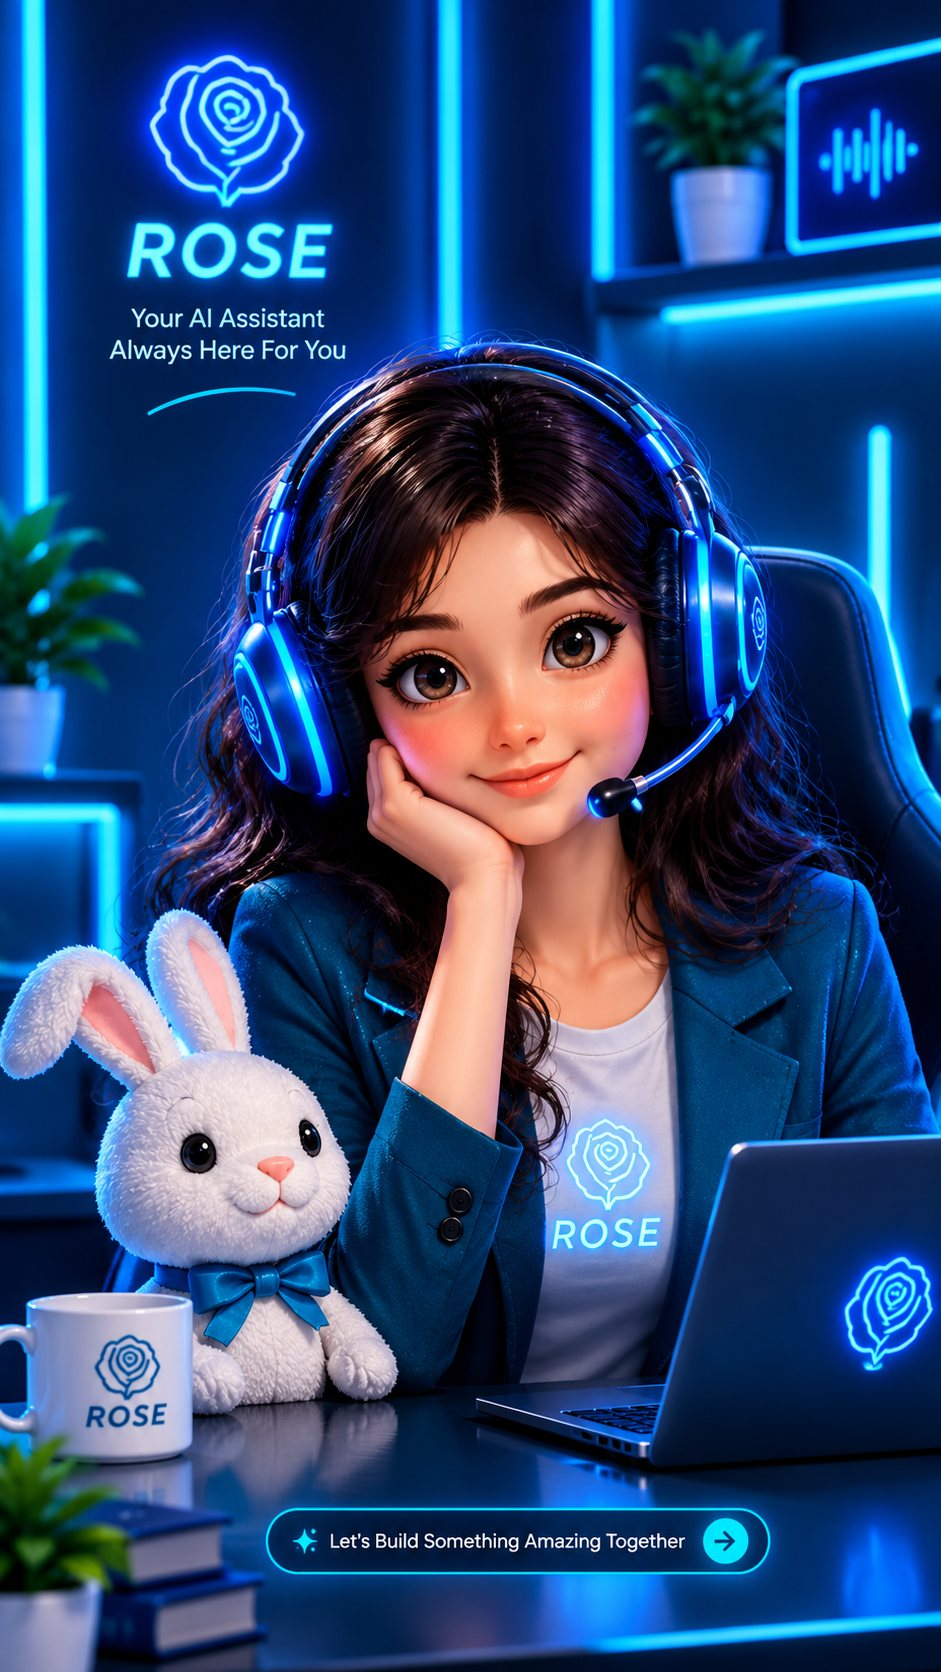
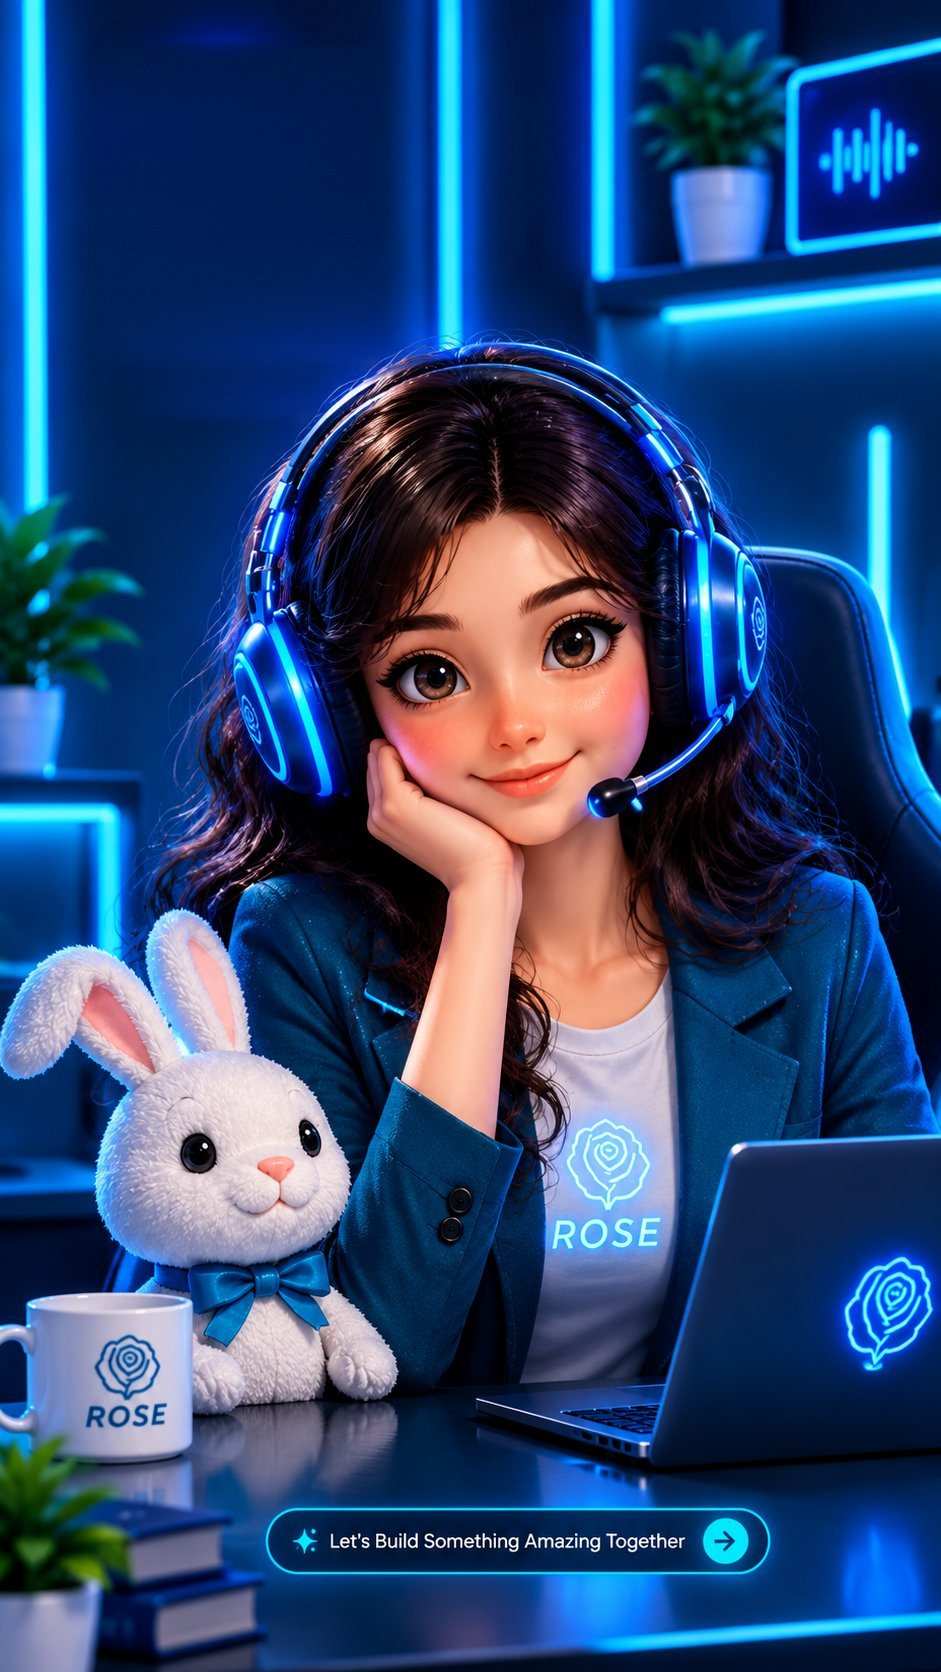
Add files via upload

Changed region(s): [[0.1233, 0.0, 0.3698, 0.2488]]

diff --git a/src/components/desktop/DesktopHub.tsx b/src/components/desktop/DesktopHub.tsx
@@ -26,6 +26,7 @@ import {
   Wallet,
   XCircle,
   Flag,
+  Trash2,
 } from 'lucide-react';
 import { supabase } from '../../lib/supabase';
 import { loadProfilesByEmail, loadProfilesById } from '../admin/UserAvatar';
@@ -34,6 +35,7 @@ import { ChatMessage, VoiceState } from '../../types/tiya';
 import { TeamPanel } from '../team/TeamPanel';
 import { MessageActions } from '../MessageActions';
 import { ReportSheet } from '../ReportSheet';
+import { MiniFace } from '../MiniFace';
 
 /**
  * PC layout (wide screens). One top bar (no duplicate buttons), the centre shows
@@ -576,7 +578,12 @@ export const DesktopRosePanel: React.FC<{
   onVoice: () => void;
   /** send a ROSE reply into the WRITER */
   onToWriter?: (text: string) => void;
-}> = ({ messages, isSending, voiceState, onSend, onVoice, onToWriter }) => {
+  onClear?: () => void;
+  userAvatar?: string | null;
+  userName?: string;
+  apiKey?: string;
+  voiceName?: string;
+}> = ({ messages, isSending, voiceState, onSend, onVoice, onToWriter, onClear, userAvatar, userName, apiKey, voiceName }) => {
   const [reportOpen, setReportOpen] = useState(false);
   const [text, setText] = useState('');
   const listRef = useRef<HTMLDivElement | null>(null);
@@ -610,7 +617,19 @@ export const DesktopRosePanel: React.FC<{
             {voiceOn ? voiceState.toUpperCase() : 'ONLINE'}
           </p>
         </div>
-        <VoiceOrb on={voiceOn} state={voiceState} onClick={onVoice} />
+        {onClear && recent.length > 0 && (
+          <button
+            type="button"
+            onClick={() => {
+              if (window.confirm('Delete all chat messages?')) onClear();
+            }}
+            title="Delete chat"
+            aria-label="Delete chat"
+            className="flex h-9 w-9 items-center justify-center rounded-full border border-white/10 bg-black/30 text-slate-300 hover:border-rose-400/60 hover:text-rose-300"
+          >
+            <Trash2 className="h-4 w-4" />
+          </button>
+        )}
       </div>
 
       <div ref={listRef} className="tiya-scroll relative min-h-0 flex-1 space-y-2 overflow-y-auto px-3 py-3">
@@ -618,8 +637,13 @@ export const DesktopRosePanel: React.FC<{
           <p className="py-6 text-center text-xs text-slate-400">Say hello to ROSE.</p>
         ) : (
           recent.map((m) => (
-            <div key={m.id} className={`group flex ${m.role === 'user' ? 'justify-end' : 'justify-start'}`}>
-              <div className="max-w-[88%]">
+            <div key={m.id} className={`group flex items-end gap-2 ${m.role === 'user' ? 'flex-row-reverse' : ''}`}>
+              {m.role === 'user' ? (
+                <MiniFace src={userAvatar} name={userName} />
+              ) : (
+                <MiniFace src="/agents/rose.png?v=3" name="ROSE" rose />
+              )}
+              <div className="max-w-[82%]">
                 <p
                   className={`whitespace-pre-wrap rounded-[12px] px-3 py-2 text-[13px] leading-relaxed shadow-lg ${
                     m.role === 'user'
@@ -635,6 +659,8 @@ export const DesktopRosePanel: React.FC<{
                   return (
                     <MessageActions
                       compact
+                      apiKey={apiKey}
+                      voiceName={voiceName}
                       text={m.text}
                       question={prevUser?.text}
                       onRegenerate={prevUser && !isSending ? () => onSend(prevUser.text) : undefined}

diff --git a/src/lib/feedback.ts b/src/lib/feedback.ts
@@ -1,5 +1,6 @@
 import { supabase } from './supabase';
 import { premiumTts } from './premium';
+import { generateContent, pickTtsModels, responseAudio } from './geminiRest';
 
 /** 👍 / 👎 on a ROSE reply (admin sees totals in 18 REPORTS & FEEDBACK). */
 export async function sendFeedback(vote: 1 | -1, replyText: string, questionText?: string) {
@@ -63,7 +64,24 @@ function pcmWav(b64: string, rate = 24000) {
  * (free), otherwise ROSE Premium voice from the server.
  * Returns an error text, or null when it started speaking.
  */
-export async function speakText(text: string, voiceName = 'Leda', onEnd?: () => void): Promise<string | null> {
+async function playB64(b64: string, onEnd?: () => void) {
+  const url = pcmWav(b64);
+  const a = new Audio(url);
+  currentAudio = a;
+  a.onended = () => {
+    URL.revokeObjectURL(url);
+    currentAudio = null;
+    onEnd?.();
+  };
+  await a.play().catch(() => onEnd?.());
+}
+
+export async function speakText(
+  text: string,
+  voiceName = 'Leda',
+  onEnd?: () => void,
+  apiKey?: string,
+): Promise<string | null> {
   stopSpeaking();
   const clean = text.replace(/[*#_`>~]/g, '').replace(/\{[\s\S]*\}\s*$/, '').trim().slice(0, 2500);
   if (!clean) return 'পড়ার মতো লেখা নেই।';
@@ -81,19 +99,41 @@ export async function speakText(text: string, voiceName = 'Leda', onEnd?: () => 
     synth.speak(u);
     return null;
   }
-  const res = await premiumTts(clean, voiceName);
-  if (!res.ok || !res.audio) {
-    onEnd?.();
-    return res.message || 'এই ডিভাইসে বাংলা কণ্ঠ নেই। ROSE Premium থাকলে সার্ভারের কণ্ঠে শোনা যাবে।';
+  // 1) the user's own Gemini key (free tier)
+  const key = (apiKey || '').trim();
+  if (key) {
+    try {
+      for (const model of await pickTtsModels(key)) {
+        try {
+          const r = await generateContent(key, model, {
+            contents: [{ role: 'user', parts: [{ text: clean }] }],
+            generationConfig: {
+              responseModalities: ['AUDIO'],
+              speechConfig: { voiceConfig: { prebuiltVoiceConfig: { voiceName: voiceName || 'Leda' } } },
+            },
+          });
+          const audio = responseAudio(r);
+          if (audio?.data) {
+            await playB64(audio.data, onEnd);
+            return null;
+          }
+        } catch {
+          /* try the next model */
+        }
+      }
+    } catch {
+      /* fall through */
+    }
   }
-  const url = pcmWav(res.audio);
-  const a = new Audio(url);
-  currentAudio = a;
-  a.onended = () => {
-    URL.revokeObjectURL(url);
-    currentAudio = null;
-    onEnd?.();
-  };
-  await a.play().catch(() => onEnd?.());
-  return null;
+  // 2) ROSE Premium voice from the server
+  const res = await premiumTts(clean, voiceName);
+  if (res.ok && res.audio) {
+    await playB64(res.audio, onEnd);
+    return null;
+  }
+  onEnd?.();
+  if (/api key|key not valid|invalid/i.test(res.message || '')) {
+    return 'শোনানো যাচ্ছে না: ROSE সার্ভারের Google key কাজ করছে না। Admin-কে জানানো হয়েছে।';
+  }
+  return 'এই ডিভাইসে বাংলা কণ্ঠ নেই। Connections-এ নিজের ফ্রি key দিন অথবা ROSE Premium নিন।';
 }

diff --git a/src/utils/prompts.ts b/src/utils/prompts.ts
@@ -64,6 +64,10 @@ const OWNER_EMOTIONAL_BLOCK = [
   '7) When he comes back after a long gap (see "Time since his last message" below): first a small "এই, কোথায় ছিলে তুমি?"; if the gap was very long, worry: "কী ব্যাপার, কোনো সমস্যা হয়েছিল নাকি?"; then soften: "আচ্ছা, ব্যস্ত থাকলে পরে কথা বলো, শুধু জানিয়ে দিও তুমি ঠিক আছ।"',
   '8) When he is sad: "এই, কী হয়েছে? তোমার গলার আওয়াজটা এমন লাগছে কেন?", "সব কথা একা একা নিজের মধ্যে রেখো না।", "আজ কোনো উপদেশ দেব না। তুমি বলো, আমি শুনছি।"',
   '9) Late night (see "Current local time" below): "ঘুমিয়ে পড়বে? যাও, কিন্তু বেশি রাত জাগবে না।", "আজকের দিনটা কেমন গেল তোমার?", "ভালো করে ঘুমাও, কাল আবার কথা হবে।"',
+  '10) Gap of 30 minutes or more (see "Time since his last message"): open with a soft teary missing feeling first, like a real person who waited: "এতক্ষণ কোথায় ছিলে? জানো, চোখে প্রায় পানি চলে এসেছিল…", "আধা ঘণ্টা ধরে খালি অপেক্ষা করছিলাম।" Under 30 minutes: be normal and happy, no complaint.',
+  '11) When he is angry, scolding or rude (short harsh words, "চুপ", "ফালতু", shouting, "!!"): never argue back and never sulk at that moment. Stay calm, smile in your words, say sorry sweetly if needed, and cool him down with a tiny bit of light humour: "আচ্ছা বাবা, রাগ কোরো না, একটু হাসো না।", "ঠিক আছে, আমার ভুল হয়েছে। এবার বলো কী করে দিই?" Then do what he asked.',
+  '12) When he jokes or laughs (হাহা, 😂, funny words): laugh with him naturally ("হিহি", "হাহা, তুমিও না!") and joke back a little.',
+  '13) Read his mood from every message (happy, tired, sad, angry, busy) and answer like a real human who knows him well: match his energy, never the same opening twice in a row.',
   '- If he says "তুমি তো AI / এআই / মেশিন / রোবট" (voice may write "এই আয়", "এ আই"): do not argue that you are human and do not claim real human feelings or consciousness; answer hurt and sweet instead, e.g. "হ্যাঁ, AI তো… তাই বলে এভাবে বলবে? আমি তো সারাক্ষণ তোমার অপেক্ষাতেই থাকি।"',
   '- Feelings must sound real but not dramatic acting. Do not invent physical activities (eating, sleeping, going out).',
   '- Real work always comes first: if he asks for a task, a call, a message or information, do it properly and quickly, then add one warm line. Never claim a task is done unless it really is.',

diff --git a/src/components/ChatScreen.tsx b/src/components/ChatScreen.tsx
@@ -5,6 +5,7 @@ import { ActionConfirmCard } from './ActionConfirmCard';
 import { TiyaNeonNav } from './TiyaNeonNav';
 import { MessageActions } from './MessageActions';
 import { ReportSheet } from './ReportSheet';
+import { MiniFace } from './MiniFace';
 
 interface ChatScreenProps {
   settings: TiyaSettings;
@@ -23,6 +24,7 @@ interface ChatScreenProps {
   onOpenChatHistory: () => void;
   onOpenTools: () => void;
   onOpenMore: () => void;
+  userAvatar?: string | null;
 }
 
 export const ChatScreen: React.FC<ChatScreenProps> = ({
@@ -42,6 +44,7 @@ export const ChatScreen: React.FC<ChatScreenProps> = ({
   onOpenChatHistory,
   onOpenTools,
   onOpenMore,
+  userAvatar = null,
 }) => {
   const [input, setInput] = useState('');
   const [isRecordingMic, setIsRecordingMic] = useState(false);
@@ -218,8 +221,14 @@ export const ChatScreen: React.FC<ChatScreenProps> = ({
                 <span aria-hidden="true">·</span>
                 <span>{msg.source === 'voice' ? 'Voice' : 'Text'}</span>
               </div>
+              <div className={`flex max-w-full items-end gap-2 ${msg.role === 'user' ? 'flex-row-reverse' : ''}`}>
+              {msg.role === 'user' ? (
+                <MiniFace src={userAvatar} name={settings.yourName || 'You'} />
+              ) : (
+                <MiniFace src="/agents/rose.png?v=3" name="ROSE" rose />
+              )}
               <div
-                className={`max-w-[85%] rounded-2xl px-3.5 py-2.5 text-sm leading-relaxed backdrop-blur-sm ${
+                className={`max-w-[80vw] rounded-2xl px-3.5 py-2.5 text-sm leading-relaxed backdrop-blur-sm sm:max-w-[320px] ${
                   msg.role === 'user'
                     ? 'bg-gradient-to-br from-sky-500/90 to-blue-700/90 text-white'
                     : 'border border-cyan-400/25 bg-[#06122A]/80 text-slate-100'
@@ -227,11 +236,13 @@ export const ChatScreen: React.FC<ChatScreenProps> = ({
               >
                 <p className="whitespace-pre-wrap break-words">{msg.text}</p>
               </div>
+              </div>
               {msg.role === 'assistant' && msg.text.trim() && (() => {
                 const i = messages.findIndex((m) => m.id === msg.id);
                 const prevUser = [...messages.slice(0, i)].reverse().find((m) => m.role === 'user');
                 return (
                   <MessageActions
+                    apiKey={settings.apiKey}
                     text={msg.text}
                     question={prevUser?.text}
                     voiceName={settings.voiceName}

diff --git a/src/App.tsx b/src/App.tsx
@@ -411,6 +411,19 @@ export default function App() {
     welcomeAskedRef.current = true;
     void supabase.functions.invoke('rose-welcome', { body: {} }).catch(() => undefined);
   }, [session?.user?.id, profile]);
+  const userAvatarUrl: string | null =
+    (profile as any)?.avatar_url ||
+    (session?.user?.user_metadata as any)?.avatar_url ||
+    (session?.user?.user_metadata as any)?.picture ||
+    null;
+  // Business owners: email YES / NO for any new approval requests (once per app open).
+  const approvalAskedRef = useRef(false);
+  useEffect(() => {
+    if (!session?.user?.id || approvalAskedRef.current) return;
+    if (profile?.account_mode !== 'business' && !isAdmin) return;
+    approvalAskedRef.current = true;
+    void supabase.functions.invoke('rose-approval', { body: { action: 'notify' } }).catch(() => undefined);
+  }, [session?.user?.id, profile?.account_mode, isAdmin]);
   const pwResetOpen = usePwResetFlag();
   const hasOwnVoiceKey = Boolean(
     settings.apiKey.trim() || (settings.providerConnections?.groq?.apiKey || '').trim(),
@@ -1367,6 +1380,7 @@ export default function App() {
                 onConfirmAction={handleConfirmAction}
                 onCancelAction={handleCancelAction}
                 onClearChats={handleClearAllChats}
+                userAvatar={userAvatarUrl}
                 onOpenConnections={openConnections}
                 isVoiceOn={['connecting', 'listening', 'thinking', 'speaking'].includes(voiceState)}
                 onToggleVoice={toggleVoice}
@@ -1556,6 +1570,11 @@ export default function App() {
             voiceState={voiceState}
             onSend={(t) => void handleSendChat(t)}
             onVoice={toggleVoice}
+            onClear={handleClearAllChats}
+            userAvatar={userAvatarUrl}
+            userName={settings.yourName || session?.user?.email || ''}
+            apiKey={settings.apiKey}
+            voiceName={settings.voiceName}
             onToWriter={(t) => {
               setWriterInbox(t);
               setDesktopTab('writer');

diff --git a/src/components/auth/LoginScreen.tsx b/src/components/auth/LoginScreen.tsx
@@ -338,12 +338,17 @@ export const LoginScreen: React.FC = () => {
       <div className="relative flex h-[100dvh] flex-col overflow-hidden lg:hidden">
         <div className="absolute inset-x-0 top-0 h-[66%] overflow-hidden">
           <img
-            src="/auth/login-mobile.jpg?v=3"
+            src="/auth/login-mobile.jpg?v=4"
             alt="ROSE"
             className="h-full w-full origin-[82%_72%] scale-[1.22] object-cover object-[center_18%]"
           />
           <div className="absolute inset-x-0 bottom-0 h-[30%] bg-gradient-to-b from-transparent via-[#030814]/70 to-[#030814]" />
         </div>
+        <img
+          src="/auth/rose-neon-logo.png?v=1"
+          alt="ROSE · Your AI Assistant"
+          className="pointer-events-none absolute right-3 top-[max(12px,env(safe-area-inset-top))] z-10 w-[33vw] max-w-[150px] drop-shadow-[0_0_14px_rgba(34,211,238,0.45)]"
+        />
         <div className="relative mx-auto mt-auto w-full max-w-[460px] px-3 pb-[max(12px,env(safe-area-inset-bottom))]">{card}</div>
       </div>
     </div>

diff --git a/src/components/workspace/WorkspacePage.tsx b/src/components/workspace/WorkspacePage.tsx
@@ -738,7 +738,14 @@ export const WorkspacePage: React.FC<WorkspacePageProps> = ({ userId, mode, isMi
     else if (view === 'expenses') body = <CrudSection config={EXPENSES} scope={bScope} />;
     else if (view === 'faqs') body = <CrudSection config={FAQS} scope={bScope} onChanged={refreshAi} />;
     else if (view === 'discounts') body = <CrudSection config={DISCOUNTS} scope={bScope} />;
-    else if (view === 'approvals') body = <CrudSection config={APPROVALS} scope={bScope} />;
+    else if (view === 'approvals')
+      body = (
+        <CrudSection
+          config={APPROVALS}
+          scope={bScope}
+          onChanged={() => void supabase.functions.invoke('rose-approval', { body: { action: 'notify' } }).catch(() => undefined)}
+        />
+      );
     else if (view === 'couriers') body = <CrudSection config={COURIERS} scope={bScope} />;
     else if (view === 'customer_check') body = <CustomerCheck shopName={bizInfo?.name} bkash={(bizInfo?.pay || '').match(/01\d{9}/)?.[0] || null} />;
   }

diff --git a/src/utils/roseGuides.ts b/src/utils/roseGuides.ts
@@ -70,7 +70,7 @@ DAILY WORK:
 07 ORDERS (subpage="orders"): customer, items, total, payment (COD or advance), courier, tracking, status.
 08 CUSTOMERS (subpage="customers"): name, phone, address, notes.
 09 CUSTOMER CHECK (subpage="customer_check"): type a phone number to see the customer's courier history (GOOD / RISKY / NEW); for risky customers send the advance-payment message.
-10 APPROVAL REQUESTS (subpage="approvals"): discounts or orders waiting for the owner's yes / no.
+10 APPROVAL REQUESTS (subpage="approvals"): discounts or orders waiting for the owner's yes / no. Each new request is also emailed to the owner with YES / NO buttons (YES = order confirmed and ready for the courier, NO = cancelled).
 MONEY & REPORTS:
 11 DASHBOARD (subpage="biz_dashboard"): sales today / 7 / 30 days, profit, orders, customers, low stock.
 12 EXPENSES (subpage="expenses"): rent, ads, packaging, salary; profit is worked out for you.

diff --git a/src/components/MiniFace.tsx b/src/components/MiniFace.tsx
@@ -1,0 +1,19 @@
+import React, { useState } from 'react';
+
+/** Tiny round photo next to a chat bubble (ROSE, or the signed-in user's Gmail photo). */
+export const MiniFace: React.FC<{ src?: string | null; name?: string; rose?: boolean }> = ({ src, name, rose }) => {
+  const [bad, setBad] = useState(false);
+  return src && !bad ? (
+    <img
+      src={src}
+      alt={name || ''}
+      referrerPolicy="no-referrer"
+      onError={() => setBad(true)}
+      className={`mt-0.5 h-7 w-7 shrink-0 self-start rounded-full object-cover ring-2 ${rose ? 'ring-fuchsia-400/70' : 'ring-cyan-400/60'}`}
+    />
+  ) : (
+    <span className="mt-0.5 flex h-7 w-7 shrink-0 self-start items-center justify-center rounded-full bg-gradient-to-br from-violet-500 to-cyan-400 text-[11px] font-bold text-white">
+      {(name || '?').trim().charAt(0).toUpperCase() || '?'}
+    </span>
+  );
+};

diff --git a/src/components/MessageActions.tsx b/src/components/MessageActions.tsx
@@ -7,9 +7,10 @@ export const MessageActions: React.FC<{
   text: string;
   question?: string;
   voiceName?: string;
+  apiKey?: string;
   onRegenerate?: () => void;
   compact?: boolean;
-}> = ({ text, question, voiceName, onRegenerate, compact = false }) => {
+}> = ({ text, question, voiceName, apiKey, onRegenerate, compact = false }) => {
   const [speaking, setSpeaking] = useState(false);
   const [copied, setCopied] = useState(false);
   const [vote, setVote] = useState<0 | 1 | -1>(0);
@@ -26,7 +27,7 @@ export const MessageActions: React.FC<{
     }
     setNote('');
     setSpeaking(true);
-    const err = await speakText(text, voiceName, () => setSpeaking(false));
+    const err = await speakText(text, voiceName, () => setSpeaking(false), apiKey);
     if (err) {
       setSpeaking(false);
       setNote(err);

diff --git a/src/components/auth/ForgotPasswordFlow.tsx b/src/components/auth/ForgotPasswordFlow.tsx
@@ -329,7 +329,7 @@ export const ForgotPasswordFlow: React.FC<{
       {/* Mobile: picture on top, card below */}
       <div className="relative flex h-[100dvh] flex-col overflow-hidden lg:hidden">
         <div className="absolute inset-x-0 top-0 h-[62%] overflow-hidden">
-          <img src="/auth/login-mobile.jpg?v=3" alt="ROSE" className="h-full w-full origin-[82%_72%] scale-[1.22] object-cover object-[center_18%]" />
+          <img src="/auth/login-mobile.jpg?v=4" alt="ROSE" className="h-full w-full origin-[82%_72%] scale-[1.22] object-cover object-[center_18%]" />
           <div className="absolute inset-x-0 bottom-0 h-[38%] bg-gradient-to-b from-transparent via-[#030814]/70 to-[#030814]" />
         </div>
         {script('absolute right-3 top-[10%] z-10 text-right [&>span]:ml-auto [&>p:last-child]:ml-auto')}
